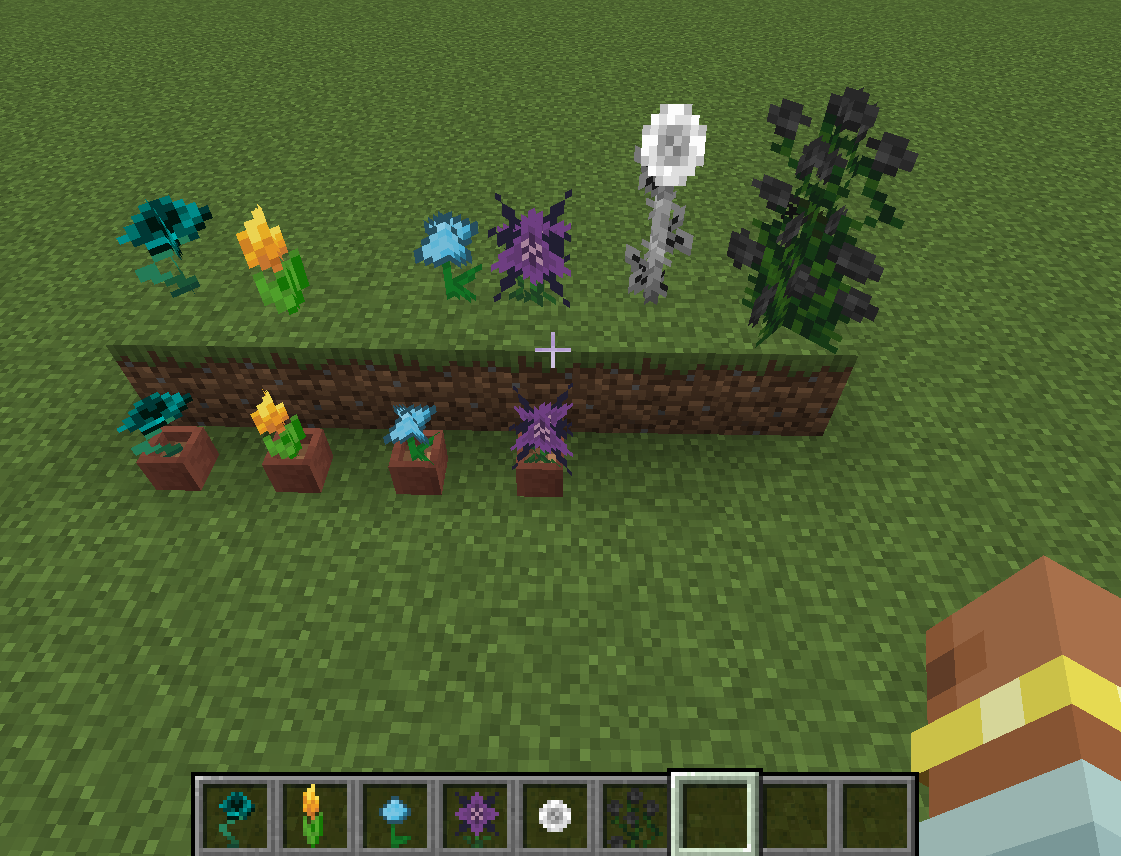
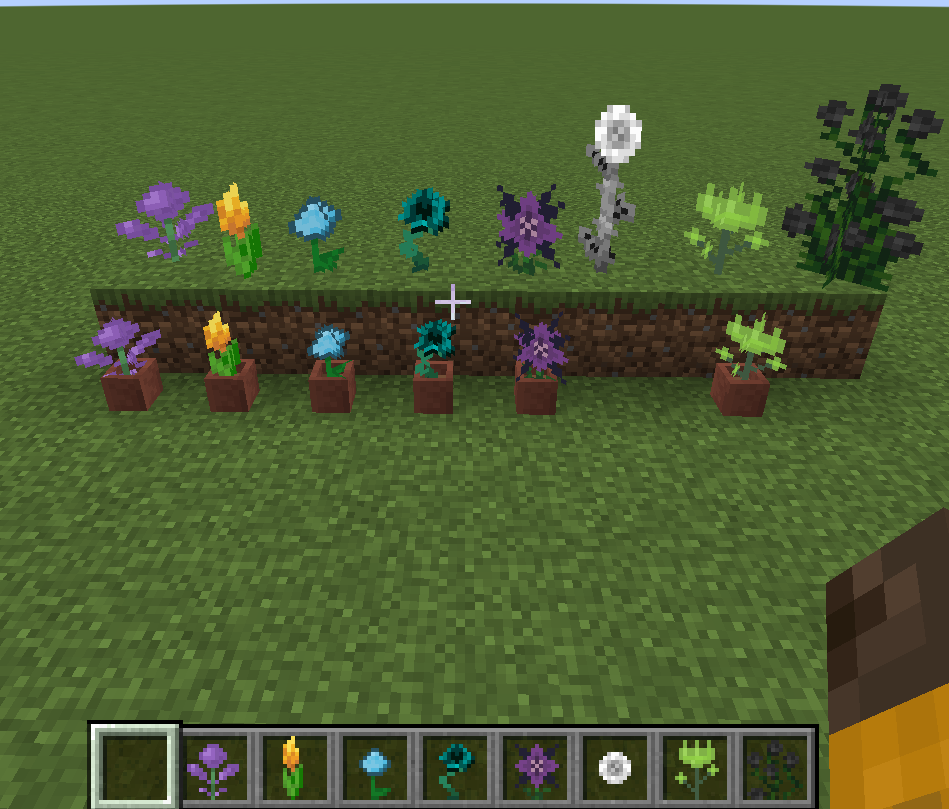
update version and readme

diff --git a/README.md b/README.md
@@ -12,12 +12,14 @@ When two vanilla flowers are close to each other and one gets pollinated by a be
 
 Tier 1 flowers (decorative and dye only):
 
-- Rose Bush + Wither Rose = Wither Bush
-- Sunflower + Open Eyeblossom = Moonflower
-- Cornflower + (Any Red Flower) = Hermit Purple
-- Lily of the Valley + (Any Tulip) = Bubblebud
+- Allium + Lilac = Blooming Thistle
 - Torchflower + Orange Tulip = Brandflower
+- Lily of the Valley + (Any Tulip) = Bubblebud
 - Rose Bush + Blue Orchid = False Rose
+- Cornflower + (Any Red Flower) = Hermit Purple
+- Sunflower + Open Eyeblossom = Moonflower
+- Azure Bluet + Dandelion/Daisy = Patina Flower
+- Rose Bush + Wither Rose = Wither Bush
 
 Planned for the future:
 
